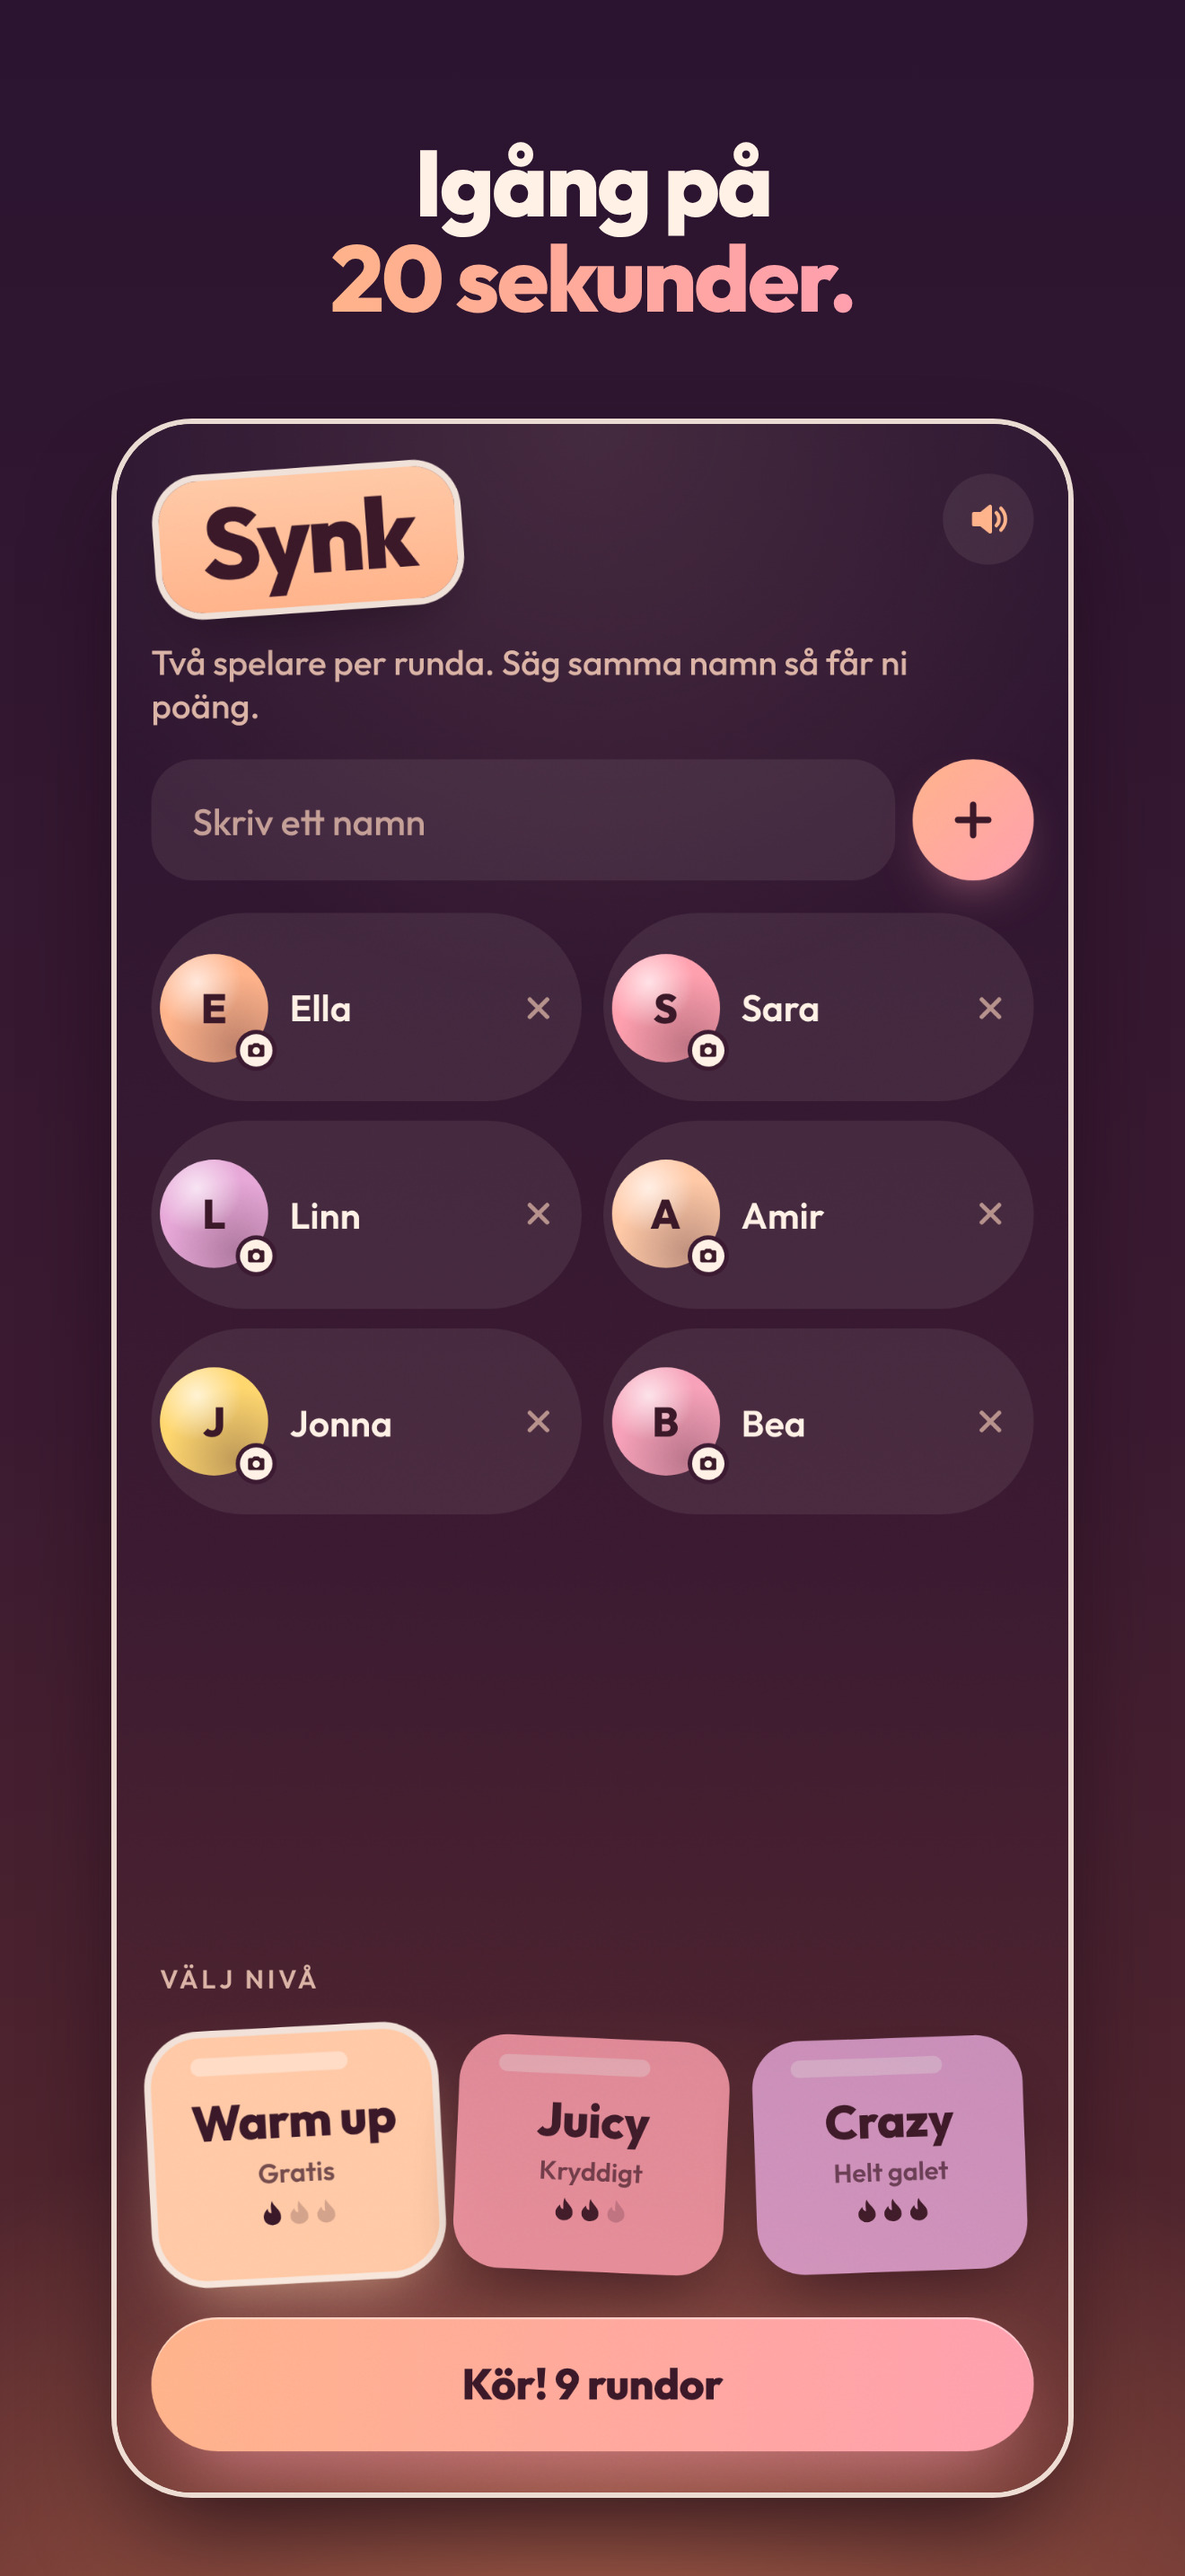
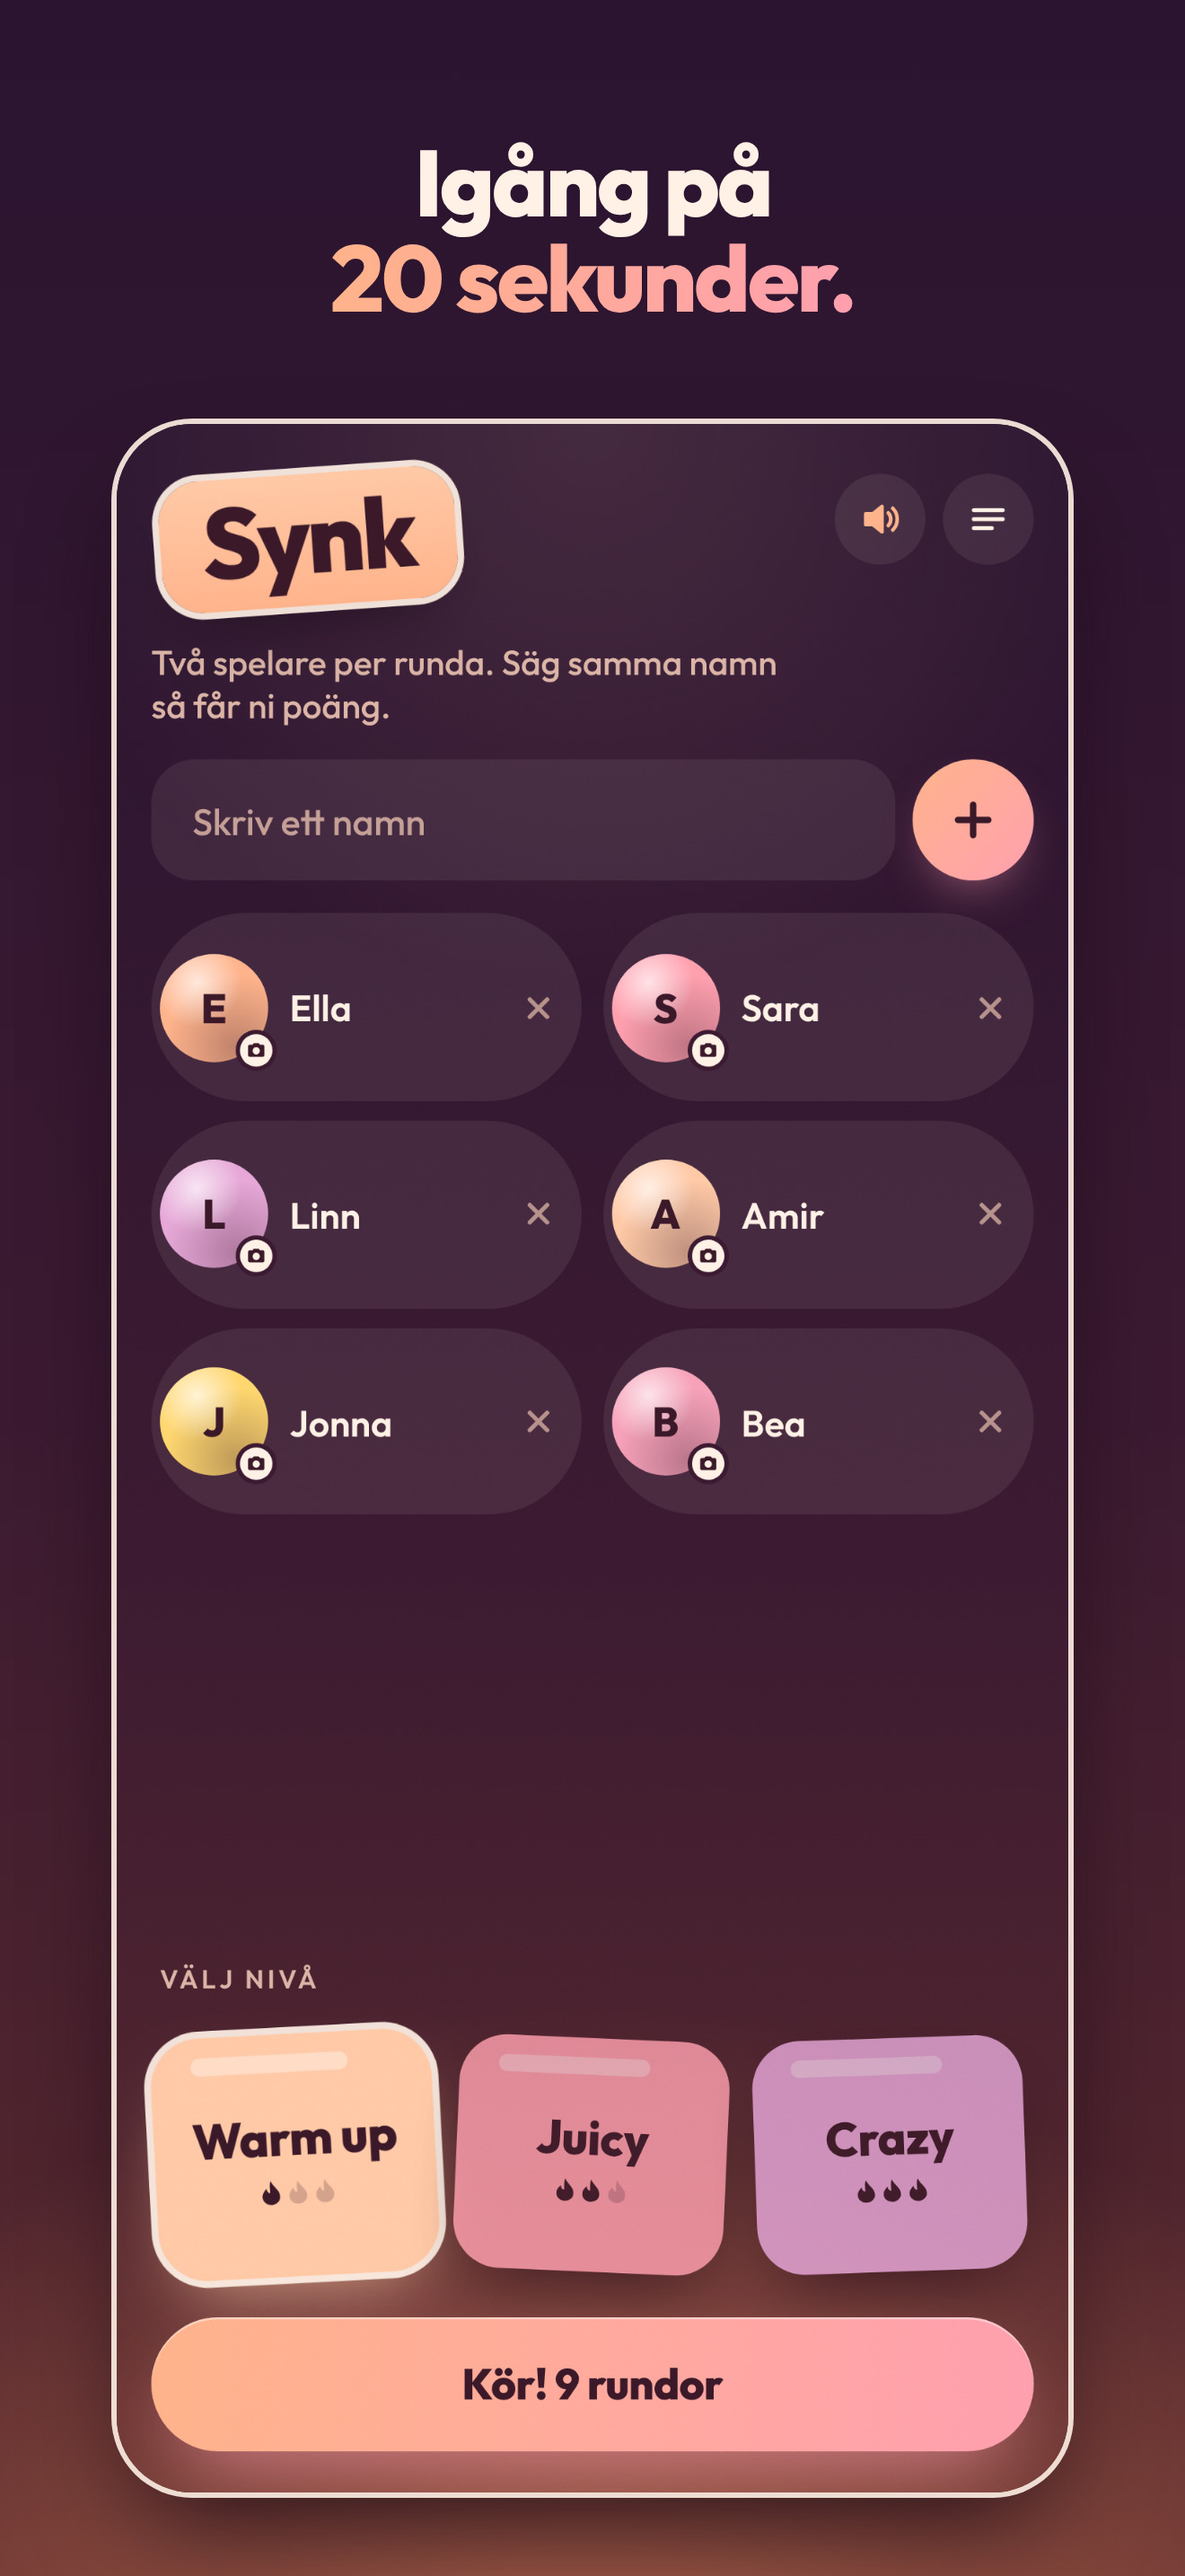
Clarify level pricing and add a menu with rules, FAQ and privacy
- Drop the subtitles under the level names. Warm up gets a small Gratis
  badge, the locked levels only show a lock, and one line says Juicy and
  Crazy unlock together for a single price.
- New menu next to the sound button with short game rules, FAQ,
  in-app privacy policy, sound toggle, Restore Purchases and contact.
- Refresh the App Store screenshots.

Claude-Session: https://claude.ai/code/session_0186nTj2r7e1PSfHvLZLoir9

diff --git a/app/index.html b/app/index.html
@@ -83,7 +83,7 @@ svg { display: block; }
 .screen { height: 100%; display: flex; flex-direction: column; gap: var(--gap); min-height: 0; }
 
 /* ---------- Logga och rubriker ---------- */
-.setup-head { position: relative; padding-right: 50px; }
+.setup-head { position: relative; padding-right: 100px; }
 .logo {
   display: inline-block;
   margin: 4px 0 0 4px;
@@ -227,7 +227,16 @@ svg { display: block; }
 .cat:active { transform: rotate(var(--tilt, 0deg)) scale(.96); }
 .cat[aria-pressed="true"] { opacity: 1; box-shadow: var(--sticker-edge), 0 16px 32px -12px color-mix(in srgb, var(--c) 70%, transparent); transform: rotate(var(--tilt, 0deg)) scale(1.04); }
 .cat-name { font-weight: 800; font-size: clamp(17px, 2.8vh, 22px); letter-spacing: -0.01em; color: inherit; }
-.cat-sub { font-size: 12px; font-weight: 600; opacity: .7; }
+/* "Gratis" är en liten etikett som sitter snett i hörnet på Warm up */
+.cat .free {
+  position: absolute; top: -10px; right: -8px;
+  font-size: 11px; font-weight: 800; letter-spacing: .08em; text-transform: uppercase;
+  background: var(--ink); color: var(--plum);
+  padding: 4px 9px 5px; border-radius: 999px;
+  transform: rotate(9deg);
+  box-shadow: 0 6px 14px -6px rgba(20, 6, 18, .7);
+}
+.cats-note { grid-column: 1 / -1; margin: -4px 0 0; text-align: center; font-size: 12px; font-weight: 600; color: var(--muted); display: flex; align-items: center; justify-content: center; gap: 5px; }
 .cat .lock { position: absolute; top: 9px; right: 11px; opacity: .55; }
 .cat[data-cat="warmup"] { --c: var(--c-warm); --tilt: -3deg; }
 .cat[data-cat="juicy"]  { --c: var(--c-juicy); --tilt: 2.5deg; }
@@ -386,8 +395,32 @@ svg { display: block; }
 .cat-option[data-cat="juicy"]  { --c: var(--c-juicy); }
 .cat-option[data-cat="crazy"]  { --c: var(--c-crazy); }
 .cat-option[aria-pressed="true"] { background: color-mix(in srgb, var(--c) 18%, transparent); }
-.sound-btn { position: absolute; top: 4px; right: 0; width: 42px; height: 42px; border-radius: 50%; display: grid; place-items: center; color: var(--muted); background: var(--surface); }
+.menu-btn { position: absolute; top: 4px; right: 0; width: 42px; height: 42px; border-radius: 50%; display: grid; place-items: center; color: var(--ink); background: var(--surface); }
+.menu-btn:active, .sound-btn:active { background: var(--surface-2); }
+.sound-btn { position: absolute; top: 4px; right: 50px; width: 42px; height: 42px; border-radius: 50%; display: grid; place-items: center; color: var(--muted); background: var(--surface); }
 .sound-btn[aria-pressed="true"] { color: var(--apricot); }
+/* ---------- Meny ---------- */
+.menu-list { display: grid; gap: 6px; }
+.menu-row { display: flex; align-items: center; justify-content: space-between; gap: 12px; min-height: 54px; padding: 0 18px; border-radius: 18px; background: var(--surface); font-weight: 600; font-size: 16px; text-align: left; width: 100%; }
+.menu-row:active { background: var(--surface-2); }
+.menu-row .val { color: var(--muted); font-weight: 600; font-size: 14px; display: flex; align-items: center; gap: 6px; }
+.menu-foot { text-align: center; color: var(--muted); font-size: 12px; margin-top: 2px; }
+.sheet .back { align-self: flex-start; height: 34px; padding: 0 12px 0 8px; border-radius: 999px; background: var(--surface); color: var(--muted); font-weight: 600; font-size: 14px; display: flex; align-items: center; gap: 4px; margin-bottom: -4px; }
+.rules { margin: 0; padding: 0; list-style: none; display: grid; gap: 10px; counter-reset: r; }
+.rules li { display: grid; grid-template-columns: 30px 1fr; gap: 10px; align-items: start; color: var(--ink); font-weight: 500; line-height: 1.4; font-size: 15px; }
+.rules li::before { counter-increment: r; content: counter(r); width: 30px; height: 30px; border-radius: 50%; background: var(--apricot); color: var(--plum); display: grid; place-items: center; font-weight: 800; font-size: 14px; transform: rotate(-6deg); }
+.rules b { color: var(--apricot); font-weight: 700; }
+.faq { display: grid; gap: 6px; }
+.faq details { background: var(--surface); border-radius: 16px; padding: 0 16px; }
+.faq summary { list-style: none; min-height: 48px; display: flex; align-items: center; justify-content: space-between; gap: 10px; font-weight: 600; font-size: 15px; cursor: pointer; }
+.faq summary::-webkit-details-marker { display: none; }
+.faq summary::after { content: "+"; font-weight: 700; font-size: 20px; color: var(--muted); transition: transform .2s; }
+.faq details[open] summary::after { transform: rotate(45deg); }
+.faq details p { padding: 0 0 14px; font-size: 14px; }
+.policy { display: grid; gap: 8px; }
+.policy p { font-size: 14px; }
+.policy b { color: var(--ink); }
+.sheet .scroll { overflow-y: auto; min-height: 0; margin: 0 -4px; padding: 0 4px; }
 .sound-row { display: flex; align-items: center; justify-content: space-between; padding: 12px 0 0; border-top: 1px solid var(--line); font-weight: 600; }
 .sound-row .top-btn { color: var(--ink); }
 
@@ -435,6 +468,7 @@ svg { display: block; }
       <h1 class="logo">Synk</h1>
       <p class="tagline">Två spelare per runda. Säg samma namn så får ni poäng.</p>
       <button class="sound-btn" id="sound-btn" aria-label="Ljud"></button>
+      <button class="menu-btn" id="menu-btn" aria-label="Meny"><svg width="20" height="20" viewBox="0 0 24 24" fill="none" stroke="currentColor" stroke-width="2.2" stroke-linecap="round"><path d="M4 7h16M4 12h16M4 17h10"/></svg></button>
     </header>
 
     <form class="add-row" id="add-form" autocomplete="off">
@@ -880,8 +914,11 @@ svg { display: block; }
       var locked = !isOpen(k);
       return '<button class="cat' + (animate && state.cat === k ? " just" : "") + '" data-cat="' + k + '" aria-pressed="' + (state.cat === k) + '" aria-label="' + c.name + (locked ? ", låst" : "") + '">' +
         (locked ? '<span class="lock">' + ICON.lock + "</span>" : "") +
-        '<span class="cat-name">' + c.name + '</span><span class="cat-sub">' + (locked ? (priceText() || "Lås upp") : c.sub) + "</span>" + heatHTML(k) + "</button>";
-    }).join("");
+        (k === "warmup" && !state.unlocked ? '<span class="free">Gratis</span>' : "") +
+        '<span class="cat-name">' + c.name + "</span>" + heatHTML(k) + "</button>";
+    }).join("") +
+      // Ett pris för båda, så att ingen tror att varje nivå kostar för sig
+      (state.unlocked ? "" : '<p class="cats-note">' + ICON.lock + "Juicy och Crazy låses upp tillsammans" + (priceText() ? " för " + esc(priceText()) : "") + "</p>");
     setAmbient(state.cat);
     if (animate) {
       var tile = $("cats").querySelector('[data-cat="' + state.cat + '"]');
@@ -1156,7 +1193,7 @@ svg { display: block; }
   $("cat-pill").addEventListener("click", function () {
     sheet("<h2>Byt nivå</h2><p>Gäller från nästa fråga.</p><div class=\"sheet-list\">" + CAT_KEYS.map(function (k) {
       return '<button class="cat-option" data-cat="' + k + '" aria-pressed="' + (state.cat === k) + '"><span class="cat-name" style="font-size:20px">' + CATS[k].name + "</span>" +
-        '<span style="color:var(--muted);font-weight:700;font-size:13px;display:flex;gap:6px;align-items:center">' + (isOpen(k) ? CATS[k].sub : ICON.lock + (priceText() || "Lås upp")) + "</span></button>";
+        '<span style="color:var(--muted);font-weight:700;font-size:13px;display:flex;gap:6px;align-items:center">' + (k === "warmup" && !state.unlocked ? "Gratis" : isOpen(k) ? "" : ICON.lock) + "</span></button>";
     }).join("") + "</div>");
     $("layer").querySelectorAll(".cat-option").forEach(function (b) {
       b.onclick = function () {
@@ -1281,6 +1318,19 @@ svg { display: block; }
     return Promise.all([price, owned]);
   }
 
+  function restorePurchase(btn, onDone) {
+    if (!NIAP) { toast("Återställning fungerar i appen"); return; }
+    var label = btn.innerHTML;
+    btn.disabled = true; btn.textContent = "Letar …";
+    function reset() { btn.disabled = false; btn.innerHTML = label; }
+    NIAP.restorePurchases().catch(function () {}).then(function () {
+      return NIAP.getPurchases({ productType: "inapp" });
+    }).then(function (r) {
+      if (ownsUnlock(r && r.purchases)) { setUnlocked(true); closeSheet(); toast("Ditt köp är återställt"); onDone && onDone(); }
+      else { reset(); toast("Hittade inget köp på det här Apple-ID:t"); }
+    }).catch(function () { reset(); toast("Kunde inte nå App Store just nu"); });
+  }
+
   function openUnlock(onDone) {
     var price = priceText();
     sheet('<h2>Lås upp Juicy och Crazy</h2>' +
@@ -1303,22 +1353,72 @@ svg { display: block; }
         if (!/cancel/i.test(msg)) toast("Köpet gick inte igenom. Försök igen.");
       });
     };
-    $("restore").onclick = function () {
-      var btn = this;
-      if (!NIAP) { toast("Återställning fungerar i appen"); return; }
-      btn.disabled = true; btn.textContent = "Letar …";
-      NIAP.restorePurchases().catch(function () {}).then(function () {
-        return NIAP.getPurchases({ productType: "inapp" });
-      }).then(function (r) {
-        if (ownsUnlock(r && r.purchases)) { setUnlocked(true); closeSheet(); toast("Ditt köp är återställt"); onDone && onDone(); }
-        else { btn.disabled = false; btn.textContent = "Återställ köp"; toast("Hittade inget köp på det här Apple-ID:t"); }
-      }).catch(function () { btn.disabled = false; btn.textContent = "Återställ köp"; toast("Kunde inte nå App Store just nu"); });
-    };
+    $("restore").onclick = function () { restorePurchase(this, onDone); };
     if (IS_NATIVE && !storePrice) syncStore().then(function () {
       var p = $("price"), bb = $("buy");
       if (storePrice && bb && !bb.disabled) { bb.textContent = "Lås upp för " + storePrice; price = storePrice; if (!p) bb.insertAdjacentHTML("beforebegin", '<div class="price" id="price">' + esc(storePrice) + "<small>engångsköp</small></div>"); }
     });
   }
+
+  // ---------- Meny: regler, vanliga frågor, integritet, ljud, köp ----------
+  var CONTACT_EMAIL = "[E-POST]"; // fyll i din supportadress innan appen skickas in
+  var APP_VERSION = "1.0";
+  var CHEV = '<svg width="16" height="16" viewBox="0 0 24 24" fill="none" stroke="currentColor" stroke-width="2.4" stroke-linecap="round" stroke-linejoin="round"><path d="M9 6l6 6-6 6"/></svg>';
+  var BACK = '<button class="back" data-back><svg width="16" height="16" viewBox="0 0 24 24" fill="none" stroke="currentColor" stroke-width="2.4" stroke-linecap="round" stroke-linejoin="round"><path d="M15 6l-6 6 6 6"/></svg>Meny</button>';
+  function wireBack() { var b = $("layer").querySelector("[data-back]"); if (b) b.onclick = openMenu; }
+
+  function openMenu() {
+    sheet("<h2>Meny</h2><div class=\"menu-list\">" +
+      '<button class="menu-row" data-go="rules">Så spelar ni' + CHEV + "</button>" +
+      '<button class="menu-row" data-go="faq">Vanliga frågor' + CHEV + "</button>" +
+      '<button class="menu-row" data-go="policy">Integritetspolicy' + CHEV + "</button>" +
+      '<button class="menu-row" id="menu-sound">Ljud<span class="val">' + (Sound.isOn() ? "På" : "Av") + "</span></button>" +
+      (state.unlocked ? "" : '<button class="menu-row" id="menu-restore">Återställ köp<span class="val">' + ICON.lock + "</span></button>") +
+      '<div class="menu-row" style="cursor:default">Kontakt<span class="val" style="user-select:text;-webkit-user-select:text">' + esc(CONTACT_EMAIL) + "</span></div>" +
+      '</div><p class="menu-foot">Synk ' + APP_VERSION + "</p>");
+    $("layer").querySelectorAll("[data-go]").forEach(function (b) {
+      b.onclick = function () { ({ rules: openRules, faq: openFaq, policy: openPolicy })[b.dataset.go](); };
+    });
+    $("menu-sound").onclick = function () { var v = Sound.toggle(); this.querySelector(".val").textContent = v ? "På" : "Av"; renderSound(); };
+    if ($("menu-restore")) $("menu-restore").onclick = function () { restorePurchase(this); };
+  }
+
+  function openRules() {
+    sheet(BACK + "<h2>Så spelar ni</h2><ol class=\"rules\">" +
+      "<li><span>Skriv in 2–10 spelare och välj nivå.</span></li>" +
+      "<li><span>Varje runda möts <b>två spelare</b> och får en fråga, till exempel <i>Vem av er är smartast?</i></span></li>" +
+      "<li><span>Tryck på <b>Räkna ner</b>. På noll säger ni båda ett namn högt: ditt eget eller den andras.</span></li>" +
+      "<li><span><b>Samma namn:</b> en poäng var. <b>Olika:</b> förklara er, resten av gänget röstar och den som hade rätt får poängen.</span></li>" +
+      "<li><span>Flest poäng efter sista rundan vinner. Är ni bara två spelar ni som ett lag och ser hur många matcher ni klarar.</span></li>" +
+      "</ol>");
+    wireBack();
+  }
+
+  function openFaq() {
+    var qa = [
+      ["Kostar det något?", "Warm up med 100 frågor är gratis. Juicy och Crazy låser du upp tillsammans med ett enda köp. Det finns ingen prenumeration."],
+      ["Jag har köpt, men nivåerna är låsta", "Öppna menyn och tryck på Återställ köp. Du måste vara inloggad med samma Apple-ID som när du köpte."],
+      ["Kommer samma fråga tillbaka?", "Inte förrän ni har spelat alla 100 frågor på nivån. Sedan blandas de om, och samma fråga dyker inte upp igen inom 50 frågor."],
+      ["Hur lång tid tar ett spel?", "7 till 10 rundor, ungefär tio minuter. Alla spelar lika många gånger."],
+      ["Var sparas namn och bilder?", "Bara på din telefon. Inget skickas till oss eller någon annan."]
+    ];
+    sheet(BACK + "<h2>Vanliga frågor</h2><div class=\"faq scroll\">" + qa.map(function (x) {
+      return "<details><summary>" + esc(x[0]) + "</summary><p>" + esc(x[1]) + "</p></details>";
+    }).join("") + "</div>");
+    wireBack();
+  }
+
+  function openPolicy() {
+    sheet(BACK + "<h2>Integritetspolicy</h2><div class=\"policy scroll\">" +
+      "<p><b>Vi samlar inte in några uppgifter om dig.</b> Det finns ingen inloggning, ingen reklam, ingen spårning och ingen analys.</p>" +
+      "<p><b>Namn och bilder</b> på spelare sparas bara i appen på din telefon och försvinner när du tar bort dem eller appen.</p>" +
+      "<p><b>Kamera och bilder</b> används bara när du själv lägger till en profilbild.</p>" +
+      "<p><b>Köp</b> görs via Apple. Vi ser aldrig dina betalningsuppgifter.</p>" +
+      "<p><b>Juicy och Crazy</b> är för dig som är 18 år eller äldre.</p>" +
+      "<p>Frågor? Mejla " + esc(CONTACT_EMAIL) + ".</p></div>");
+    wireBack();
+  }
+  $("menu-btn").addEventListener("click", openMenu);
 
   // ---------- Sheets, toast, skärmar ----------
   function sheet(html) {

diff --git a/README.md b/README.md
@@ -34,6 +34,7 @@ Det här kräver en Mac med **Xcode 26 eller senare** (Apples krav sedan april 2
 
 ## Innan du skickar in
 - Fyll i `[NAMN ELLER BOLAG]` och `[E-POST]` i `site/synk/integritetspolicy.html` och `site/synk/support.html`.
+- Fyll i din supportadress i `CONTACT_EMAIL` i `app/index.html`. Den visas under Kontakt och i integritetspolicyn i appens meny.
 - Publicera de två sidorna så att de har en riktig adress, och klistra in adresserna i App Store Connect.
   - GitHub Pages: **Settings → Pages → Deploy from a branch**, välj `main` och `/ (root)`. Sidorna hamnar då under `.../site/synk/`. På ett privat repo kräver GitHub Pages ett betalkonto. Annars kan du lägga filerna på din vanliga hemsida.
 
